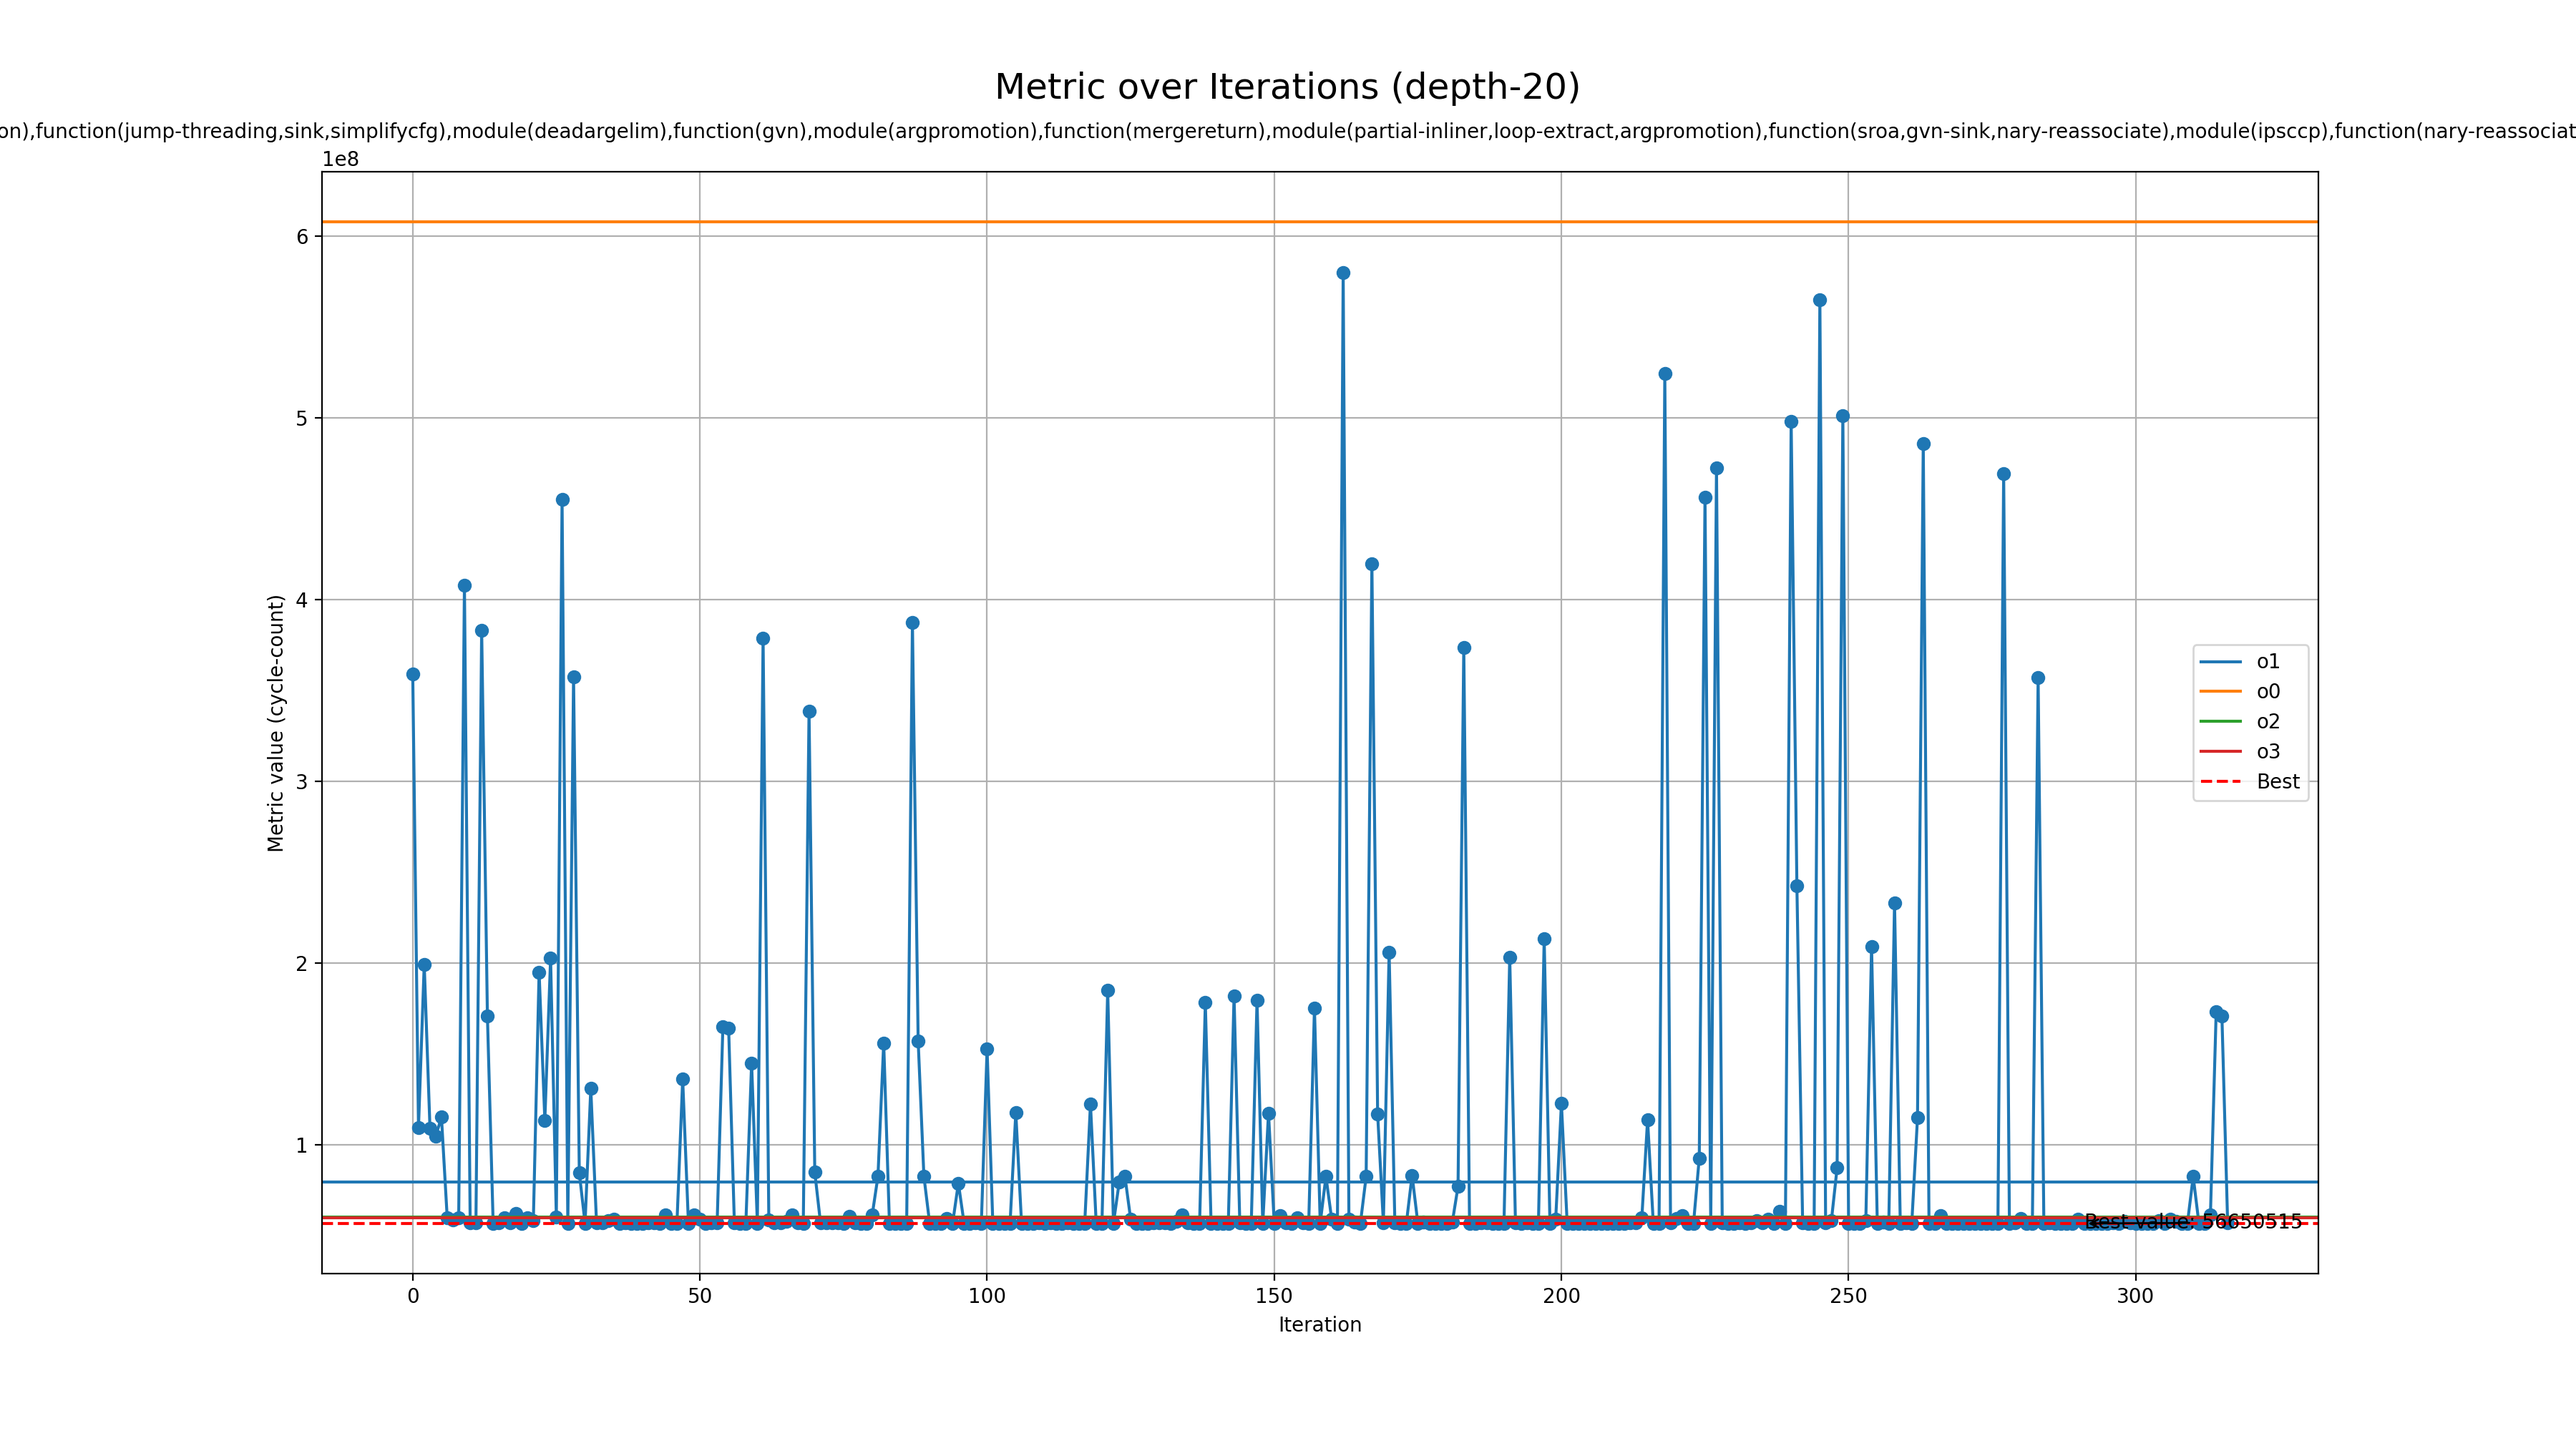
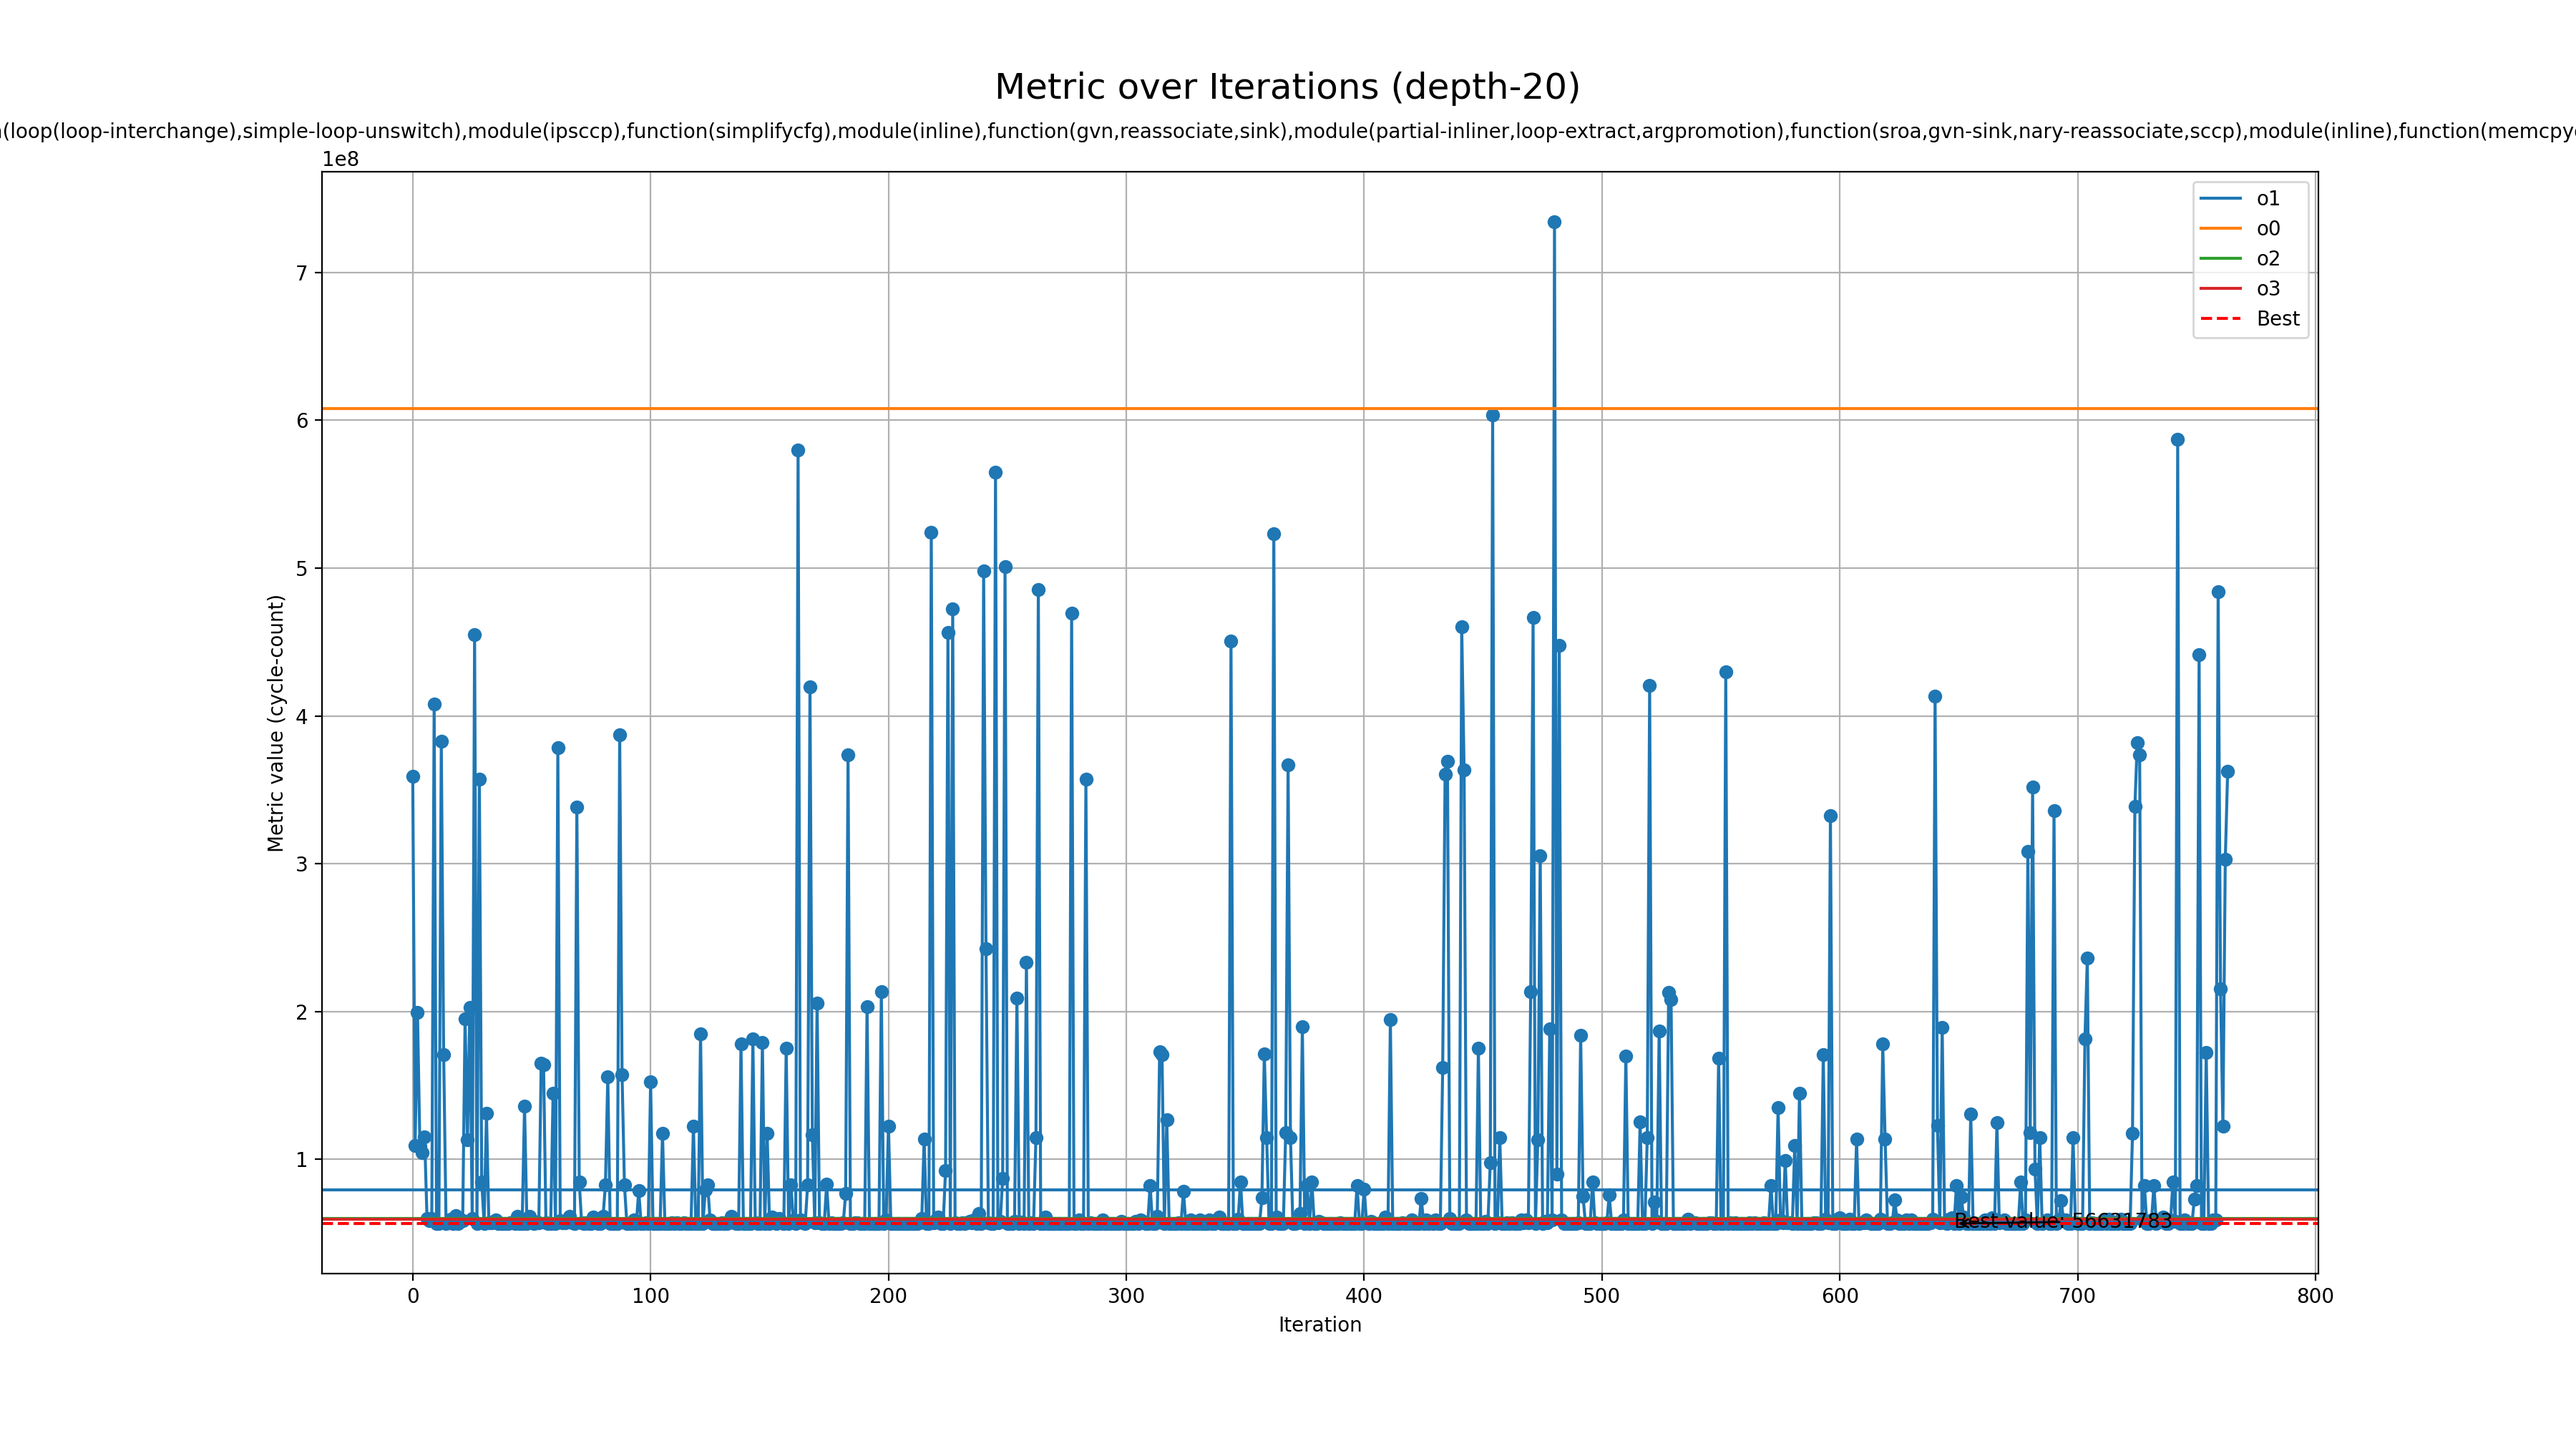
Update plot for rsp depth-20

diff --git a/results/docs/rq2/genetic-all-depth20-rsp-sp1/README.md b/results/docs/rq2/genetic-all-depth20-rsp-sp1/README.md
@@ -14,10 +14,10 @@
 
 ## Best profile
 
-- Best profile: ProfileConfig(name='genetic', lto='fat', single_codegen_unit=True, opt_level='3', prepopulate_passes=True, passes=['module(synthetic-counts-propagation),function(jump-threading,sink,simplifycfg),module(deadargelim),function(gvn),module(argpromotion),function(mergereturn),module(partial-inliner,loop-extract,argpromotion),function(sroa,gvn-sink,nary-reassociate),module(ipsccp),function(nary-reassociate,memcpyopt,gvn-hoist,early-cse),module(wholeprogramdevirt)'])
-- Metric: 56650515
+- Best profile: ProfileConfig(name='genetic', lto='fat', single_codegen_unit=True, opt_level='3', prepopulate_passes=True, passes=['function(loop(loop-interchange),simple-loop-unswitch),module(ipsccp),function(simplifycfg),module(inline),function(gvn,reassociate,sink),module(partial-inliner,loop-extract,argpromotion),function(sroa,gvn-sink,nary-reassociate,sccp),module(inline),function(memcpyopt,gvn-hoist,memcpyopt,mem2reg)'])
+- Metric: 56631783
 - Mode: depth-20
-- Tune config: ProfileConfig(name='genetic', lto='fat', single_codegen_unit=True, opt_level='3', prepopulate_passes=True, passes=['module(synthetic-counts-propagation),function(jump-threading,sink,simplifycfg),module(deadargelim),function(gvn),module(argpromotion),function(mergereturn),module(partial-inliner,loop-extract,argpromotion),function(sroa,gvn-sink,nary-reassociate),module(ipsccp),function(nary-reassociate,memcpyopt,gvn-hoist,early-cse),module(wholeprogramdevirt)'])
+- Tune config: ProfileConfig(name='genetic', lto='fat', single_codegen_unit=True, opt_level='3', prepopulate_passes=True, passes=['function(loop(loop-interchange),simple-loop-unswitch),module(ipsccp),function(simplifycfg),module(inline),function(gvn,reassociate,sink),module(partial-inliner,loop-extract,argpromotion),function(sroa,gvn-sink,nary-reassociate,sccp),module(inline),function(memcpyopt,gvn-hoist,memcpyopt,mem2reg)'])
 
 ## Overview
   
